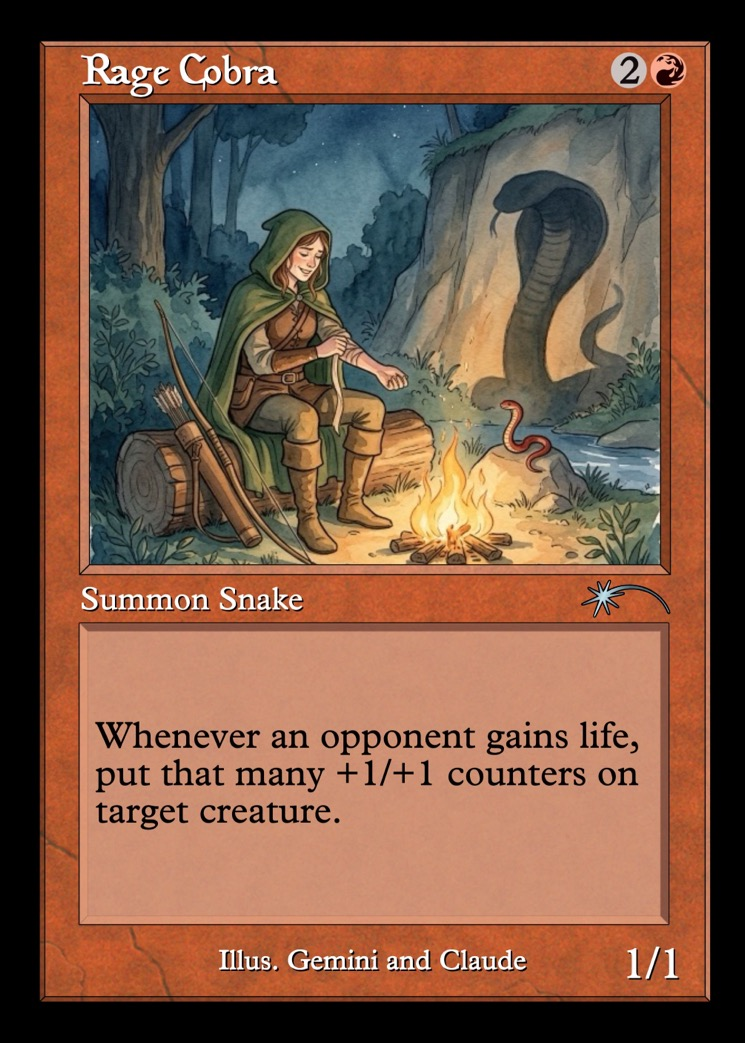
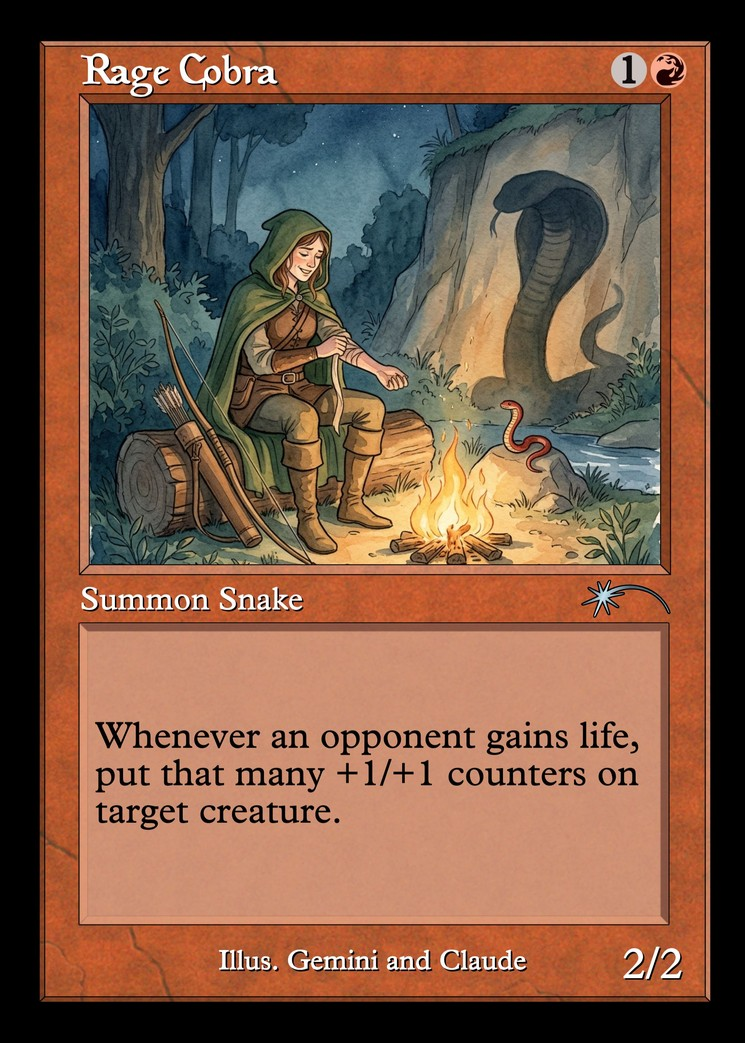
Rage Cobra is {1}{R} 2/2 (Chris, post-S53 — card-test: +2.5 +- 0.4 over the old {2}{R} 1/1, ~2.3 on the Limited score, above Boggart Brute); the re-printed face verified word for word and installed; its Limited score the card test's estimate until the next re-measure; one fixture re-baselined by the

diff --git a/packages/engine/test/s50-red.test.ts b/packages/engine/test/s50-red.test.ts
@@ -111,6 +111,6 @@ describe("Rage Cobra (custom): whenever an OPPONENT gains life, that many +1/+1 
     const cobra = getObject(tg.game.state, tg.findBattlefield("rage_cobra"));
     expect(cobra.counters["+1/+1"]).toBe(1); // their one life; our own one life is not an opponent's
     const ch = characteristics(tg.game.ctx, cobra.id);
-    expect([ch.power, ch.toughness]).toEqual([2, 2]);
+    expect([ch.power, ch.toughness]).toEqual([3, 3]); // post-S53 (Chris): a 2/2 for {1}{R} — re-baselined from [2, 2] with the card
   });
 });

diff --git a/handoff.md b/handoff.md
@@ -85,6 +85,12 @@ All four lines are in place:
 - **Portraits recycle** across the 128 seats (38 portraits; every opponent has a face).
 - 896 tests pass.
 
+## After the handoff — a single-card playtest, and Rage Cobra re-costed (Chris, 2026-10-03)
+- **`pnpm card-test`** (`world/card-test-cli.ts`): variants of a card (cost, P/T, keywords — sim-only, never in `data/cards`) swapped into the SAME slot of red Sealed host decks (the host's lowest-rated singleton nonland card), played on the same seeds against a fixed forty-deck gauntlet. The headline is the **paired change** per host against a baseline variant (± is across hosts); a game in which the test card is never drawn replays identically, so the noise comes only from the games where it shows up. Also: lift, cast when drawn, the game turn cast, and (observed from the life totals) the opponent's life gained while the card was out.
+- **Its controls** (400 hosts, 8,000 paired games a variant, against Gray Ogre): an identical copy **+0.0** (0 of 4,266 undrawn games diverged); a vanilla 3/2 Ogre **+0.9 ± 0.2**; Boggart Brute **+1.6 ± 0.3** (menace alone +0.7 ± 0.2); both halves of the hosts agree. Lift ranks the same way at about three times the noise.
+- **Rage Cobra's grid** (207 hosts, against the old {2}{R} 1/1; Ogre and Brute as yardsticks): 2R 2/1 +0.8 · 2R 2/2 +1.3 · 1R 1/1 +0.7 · 1R 2/1 +1.6 · **1R 2/2 +2.5 ± 0.4** · R 1/1 +1.7 · R 2/1 +3.2 · R 2/2 +3.9; Gray Ogre −0.8, Boggart Brute +1.6. A mana is worth ~0.8–0.9 points, a point of power ~0.5–0.8. The old Cobra loses to Gray Ogre when the opponent gains no life (+0.9 to the Ogre) and beats it by 2.2 when they do. The trigger fired in about 30% of the games the Cobra was cast, ~7 counters when it did. Mapped by the two yardsticks' measured Limited scores (≈0.48 a point), 1R 2/2 sits at ≈2.3 — above Boggart Brute (1.80), among red's better commons.
+- **Chris's ruling: Rage Cobra is {1}{R} 2/2** (the trigger unchanged). The def, the printed face (Chris's re-print — verified word for word: {1}{R}, Summon Snake, the trigger, 2/2 — resampled and installed), the pool registry, the manifest and `docs/reference/cards.md`. One fixture re-baselined by the card (the Warden-fed Cobra is 3/3, was 2/2). **Its Limited score is the card test's estimate, 2.31, until the next Limited re-measure** (its old card's 11,058 sightings cleared); its Constructed `rating` is still the old card's. *For the planner*: the card change itself, and whether `card-test` becomes the standard check before a custom card enters the pool.
+
 ## Deviations from the brief
 1. **128 seats** (Chris), not thirty-two; the default stages are otherwise the brief's.
 2. **Draft rounds inside the pod; the second draft's pods by standings** (Chris). The brief said only "the Swiss pairs on [the carried record]".

diff --git a/docs/registries/pool-registry.md b/docs/registries/pool-registry.md
@@ -624,7 +624,7 @@ Pool 238 → **244**. Six cards that are good alone in a forty-card deck.
 | shocking_sharpshooter | Shocking Sharpshooter | tested | reach; triggered(ENTERS other, controller you, Creature): damage 1 to opponent | **TDM #121 — a 1/3 Human Archer** (the brief had a 2/2 Lizard Archer from Bloomburrow; no such card). T1. *Known simplification*: the Oracle's "target opponent" is encoded untargeted (`to: opponent`) — the pool has no player-targeting word for a trigger and no effect that makes a player an illegal target. **Art (Chris, 2026-10-05)**: our own — the storm archer (Scryfall has no high-resolution English scan); printed face verified word-for-word (name-in-text, the older template of Oracle's "this creature"); `art.asset`, `printedAsset`. AI: cast before the creatures it watches (book 87). |
 | dragon_fodder | Dragon Fodder | tested | createToken goblin_1_1 × 2 | ALA #97. T1. Zero words. |
 | seasoned_pyromancer | Seasoned Pyromancer | tested | triggered(ENTERS self): discard 2 (you choose), draw 2, createToken elemental_1_1_r × `discardedNonland` (R-102); activated from the graveyard {3}{R}{R}, exile self: two Elementals | MH1 #145 (Cynthia Sheppard). T3. One word: the `discardedNonland` ref. AI (book 91): a land first when the mana is comfortable; the graveyard activation with idle mana. |
-| rage_cobra | Rage Cobra | tested | custom Snake 1/1; triggered(LIFE_GAINED opponent) target creature: addCounters +1/+1 `eventLife` | {2}{R}. T2. Zero words (Vitalist's collector at `controller: opponent`). Art: the watercolor storybook with a hooded ranger at the fire (Chris, 2026-10-03 — #4, the modern hiker replaced). Printed face (Chris, 2026-10-03) verified word-for-word; `printedAsset`. AI: Vitalist's rule (book 92). |
+| rage_cobra | Rage Cobra | tested | custom Snake 2/2; triggered(LIFE_GAINED opponent) target creature: addCounters +1/+1 `eventLife` | **{1}{R} 2/2 (post-S53, Chris, 2026-10-03 — was {2}{R} 1/1; `pnpm card-test`: +2.5 ± 0.4 over the old card, ≈ 2.3 on the Limited score; the face re-printed and verified).** T2. Zero words (Vitalist's collector at `controller: opponent`). Art: the watercolor storybook with a hooded ranger at the fire (Chris, 2026-10-03 — #4, the modern hiker replaced). Printed face (Chris, 2026-10-03) verified word-for-word; `printedAsset`. AI: Vitalist's rule (book 92). |
 
 ## Shop tiers (ADR-078, S19)
 

diff --git a/docs/reference/cards.md b/docs/reference/cards.md
@@ -147,6 +147,7 @@
 | Dragon Fodder | R | Sorcery | {1}{R} | 2 |  |  | 1 | 12 |  | Create two 1/1 red Goblin creature tokens. |
 | Goblin Piker | R | Creature — Goblin Warrior | {1}{R} | 2 | 2/1 |  | 1 | 12 |  |  |
 | Pyroclasm | R | Sorcery | {1}{R} | 2 |  |  | 2 | 18 |  | Pyroclasm deals 2 damage to each creature. |
+| Rage Cobra | R | Creature — Snake | {1}{R} | 2 | 2/2 |  | 2 | 18 | custom | Whenever an opponent gains life, put that many +1/+1 counters on target creature. |
 | Shocking Sharpshooter | R | Creature — Human Archer | {1}{R} | 2 | 1/3 | reach | 1 | 12 |  |  |
 | Thundersnake | R | Creature — Elemental Snake | {R}{R} | 2 | 4/1 | trample, haste | 2 | 18 | custom | Trample, haste At the beginning of the end step, sacrifice Thundersnake. |
 | Young Pyromancer | R | Creature — Human Shaman | {1}{R} | 2 | 2/1 |  | 2 | 12 |  | Whenever you cast an instant or sorcery spell, create a 1/1 red Elemental creature token. |
@@ -158,7 +159,6 @@
 | Gray Ogre | R | Creature — Ogre | {2}{R} | 3 | 2/2 |  | 1 | 16 |  |  |
 | Guttersnipe | R | Creature — Goblin Shaman | {2}{R} | 3 | 2/2 |  | 3 | 40 |  | Whenever you cast an instant or sorcery spell, this creature deals 2 damage to each opponent. |
 | Hordeling Outburst | R | Sorcery | {1}{R}{R} | 3 |  |  | 1 | 16 |  | Create three 1/1 red Goblin creature tokens. |
-| Rage Cobra | R | Creature — Snake | {2}{R} | 3 | 1/1 |  | 2 | 24 | custom | Whenever an opponent gains life, put that many +1/+1 counters on target creature. |
 | Seasoned Pyromancer | R | Creature — Human Shaman | {1}{R}{R} | 3 | 2/2 |  | 3 | 40 |  | When this creature enters, discard two cards, then draw two cards. For each nonland card discarded this way, create a 1/1 red Elemental creature token. {3}{R}{R}, Exile this card from your graveyard: Create two 1/1 red Elemental creature tokens. |
 | Flametongue Kavu | R | Creature — Kavu | {3}{R} | 4 | 4/2 |  | 2 | 30 |  | When this creature enters, it deals 4 damage to target creature. |
 | Furnace Whelp | R | Creature — Dragon | {2}{R}{R} | 4 | 2/2 | flying | 2 | 30 |  | Flying {R}: This creature gets +1/+0 until end of turn. |

diff --git a/docs/implementer-notes.md b/docs/implementer-notes.md
@@ -624,3 +624,6 @@ See handoff Concerns for the authoritative list. Highlights: auto-pay greedy fea
 - **The save at 128 seats is ~300–520 KB** (every seat's 45-card pool in a draft stage); the ledger line ~12 KB (the whole field's names).
 - **Driving a long browser walk:** `__cc` plus a small async driver; a javascript_tool call times out at 45 s — start the driver with `.then(r => window.__done = r)` and poll.
 - **The Limited score's unseen cards sit at their tier's mean — above where an avoided card belongs.** v1.3 put Gray Ogre and Disenchant (≈100 sightings under v1.1) at ~1.9, the builder played them, and v1.4 read them at −1.7. Each rebuild corrects the last one's unplayed cards.
+- **`pnpm card-test` is the precise way to compare versions of a card**: swapping one card into the SAME slot on the same seeds means a game where the card is never drawn replays exactly (0 of ~4,000 diverged), so 8,000 paired games resolve ~0.5 points — the tinker study's unpaired swaps needed ~1,400 games for 2. Use the paired change, not lift (three times the noise). A cost change leaks a few games (the opponent's profile reads our decklist).
+- **The game log carries only a few event types** (draws, casts, damage, shuffles) — a trigger cannot be counted from it. `card-test`'s watcher reads the opponent's life between the host's decisions instead (observed, not exact).
+- **A card edit needs `pnpm reference`** (the generated docs/reference/cards.md is pinned by a test).
